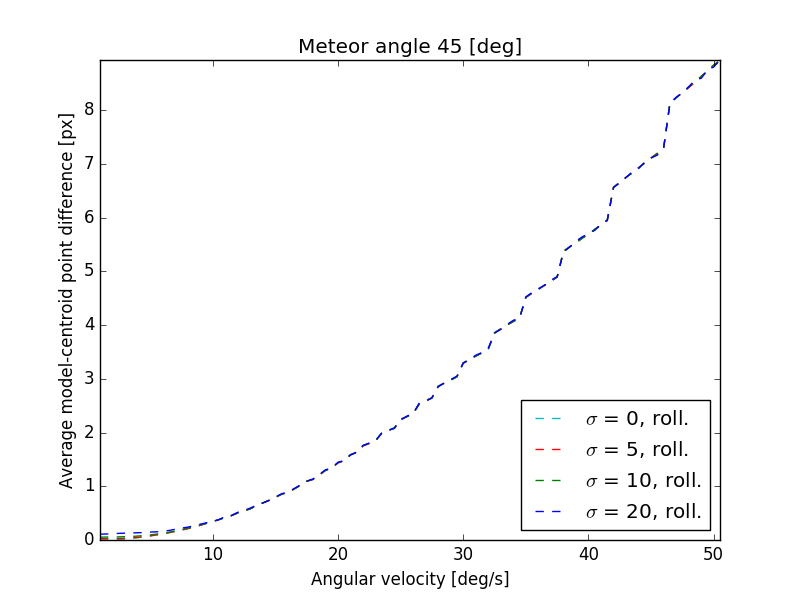
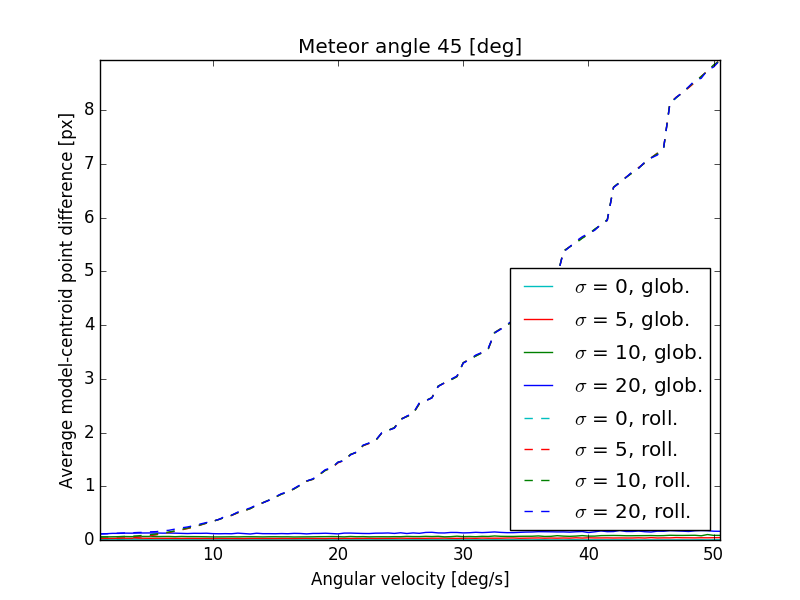
fixed plot

Changed region(s): [[0.125, 0.42, 0.9062, 0.9], [0.7188, 0.51, 0.7812, 0.54]]

diff --git a/Source/ODN-RGPlot.py b/Source/ODN-RGPlot.py
@@ -23,8 +23,8 @@ noise3_global = data['arr_8']
 # Plot four noise arrays for global shutter
 plt.plot(omega_arr, noise0_global, 'c-', label = '$\sigma$ = 0, glob.')
 plt.plot(omega_arr, noise1_global, 'r-', label = '$\sigma$ = 5, glob.')
-#plt.plot(omega_arr, noise2_global, 'g-', label = '$\sigma$ = 10, glob.')
-#plt.plot(omega_arr, noise3_global, 'b-', label = '$\sigma$ = 20, glob.')
+plt.plot(omega_arr, noise2_global, 'g-', label = '$\sigma$ = 10, glob.')
+plt.plot(omega_arr, noise3_global, 'b-', label = '$\sigma$ = 20, glob.')
 
 
 # Plot four noise arrays for rolling shutter
